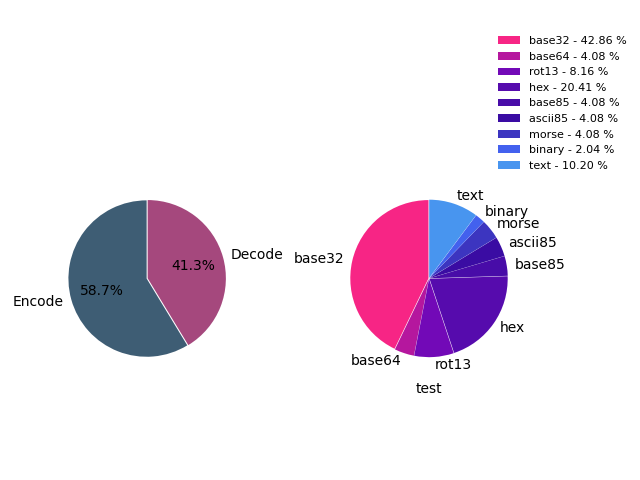
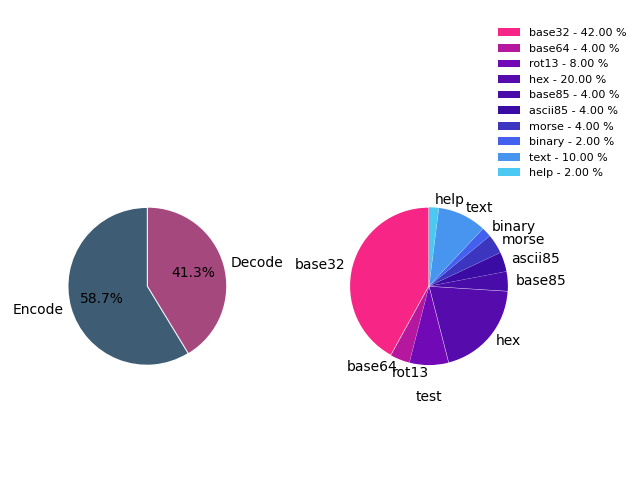
2M args.py was broken because of a missing help attribute

diff --git a/DataVisualization/args.py b/DataVisualization/args.py
@@ -23,6 +23,7 @@ count = {
     "morse": 0,
     "binary": 0,
     "text": 0,
+    "help": 0
 }
 for entry in Arglist:
     for k, v in entry.items():
@@ -39,7 +40,7 @@ en_de_sizes = [count["encode"], count["decode"]]
 en_de_labels = ["Encode", "Decode"]
 en_de_colors = ["#3E5D74", "#a5487d"]
 # other args vars
-o_explode = (0.007, 0.007, 0.007, 0.007, 0.007, 0.007, 0.007, 0.007, 0.007)
+o_explode = (0.007, 0.007, 0.007, 0.007, 0.007, 0.007, 0.007, 0.007, 0.007, 0.007)
 o_sizes = np.array(
     [
         count["base32"],
@@ -51,6 +52,8 @@ o_sizes = np.array(
         count["morse"],
         count["binary"],
         count["text"],
+        count["help"]
+
     ]
 )
 o_labels = [
@@ -63,6 +66,7 @@ o_labels = [
     "morse",
     "binary",
     "text",
+    "help"
 ]
 o_colors = [
     "#f72585",
@@ -75,6 +79,7 @@ o_colors = [
     "#4361ee",
     "#4895ef",
     "#4cc9f0",
+    "#45B7DA"
 ]
 porcent = 100.0 * o_sizes / o_sizes.sum()
 labels = ["{0} - {1:1.2f} %".format(i, j) for i, j in zip(o_labels, porcent)]
